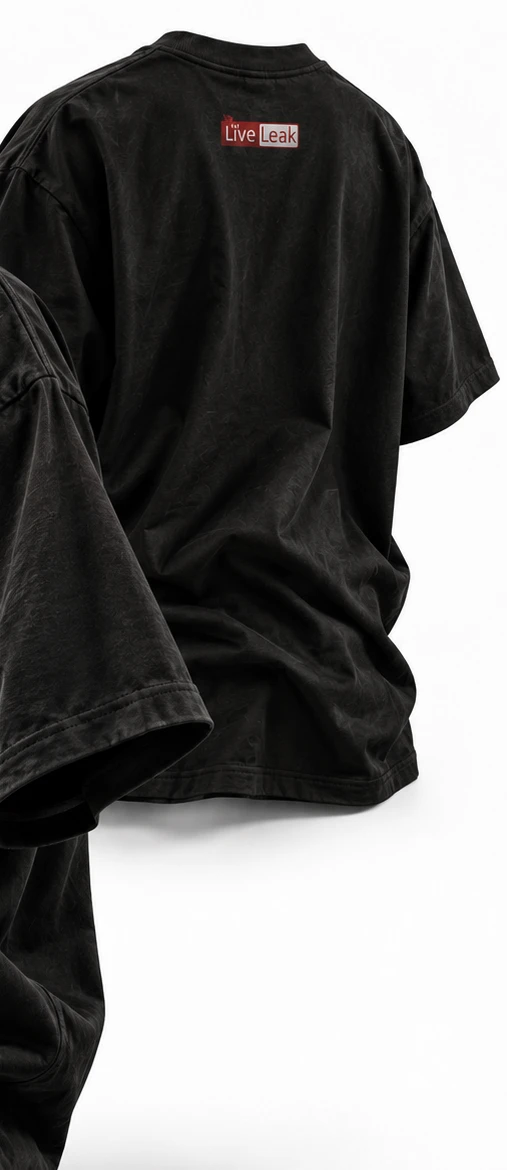
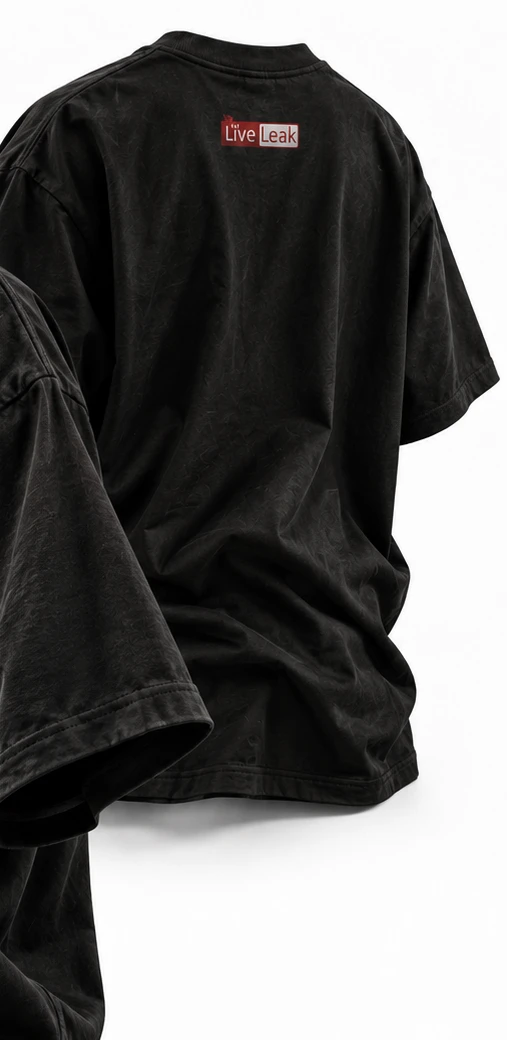
Actualización del proyecto

diff --git a/src/components/WompiCheckout.tsx b/src/components/WompiCheckout.tsx
@@ -177,7 +177,7 @@ export default function WompiCheckout({ open, onClose, items }: Props) {
           animate={{ opacity: 1 }}
           exit={{ opacity: 0 }}
           transition={{ duration: 0.2 }}
-          className="fixed inset-0 z-[100] bg-black/85 flex items-end sm:items-center justify-center p-0 sm:p-6 overflow-y-auto"
+          className="fixed inset-0 z-[100] bg-black/85 flex items-end sm:items-center justify-center p-0 sm:p-6"
           role="dialog"
           aria-modal="true"
           aria-label="Pago con Wompi"
@@ -187,9 +187,9 @@ export default function WompiCheckout({ open, onClose, items }: Props) {
             animate={{ y: 0, opacity: 1 }}
             exit={{ y: 40, opacity: 0 }}
             transition={{ duration: 0.28, ease: [0.22, 1, 0.36, 1] }}
-            className="w-full sm:max-w-lg bg-black text-white border border-white/25 my-auto"
+            className="w-full sm:max-w-lg max-h-[92dvh] sm:max-h-[85dvh] bg-black text-white border border-white/25 flex flex-col overscroll-contain"
           >
-            <div className="flex items-center justify-between border-b border-white/10 px-6 py-4 sticky top-0 bg-black">
+            <div className="flex items-center justify-between border-b border-white/10 px-6 py-4 shrink-0">
               <p className="text-[10px] tracking-[0.3em] uppercase">Pago seguro · Wompi</p>
               <button
                 onClick={onClose}
@@ -200,7 +200,7 @@ export default function WompiCheckout({ open, onClose, items }: Props) {
               </button>
             </div>
 
-            <div className="px-6 py-6 space-y-4">
+            <div className="px-6 py-6 space-y-4 overflow-y-auto overscroll-contain flex-1">
               {phase === "form" && (
                 <form onSubmit={handleSubmit} className="space-y-3">
                   <h3 className="text-2xl font-display tracking-wide">Tu pedido</h3>
@@ -276,9 +276,20 @@ export default function WompiCheckout({ open, onClose, items }: Props) {
                   <button
                     type="submit"
                     disabled={busy || items.length === 0}
-                    className="w-full h-14 text-xs tracking-[0.2em] uppercase font-semibold border border-white/25 hover:bg-white hover:text-black transition-colors disabled:opacity-40"
+                    className="w-full h-16 flex flex-col items-center justify-center gap-1 bg-black border border-white/25 hover:border-white transition-colors disabled:opacity-40"
                   >
-                    {busy ? "Preparando pago…" : "Pagar con Wompi"}
+                    {busy ? (
+                      <span className="text-xs tracking-[0.2em] uppercase font-semibold">Preparando pago…</span>
+                    ) : (
+                      <>
+                        <span className="text-[9px] tracking-[0.2em] uppercase text-white/50">Pagar de forma segura</span>
+                        <span className="flex items-center gap-3">
+                          <img src="/images/wompi-white.png" alt="Wompi" className="h-4 w-auto" />
+                          <span className="text-white/20 text-sm leading-none">×</span>
+                          <img src="/images/bancolombia-white.png" alt="Bancolombia" className="h-3.5 w-auto" />
+                        </span>
+                      </>
+                    )}
                   </button>
                   <WompiVerifiedBadge className="justify-center" />
                   <p className="text-[10px] text-white/45 leading-relaxed">

diff --git a/src/routes/producto.$slug.tsx b/src/routes/producto.$slug.tsx
@@ -67,13 +67,15 @@ function ProductPage() {
   const price = product.price ?? PRICE;
   const [size, setSize] = useState("XL");
   const [guideOpen, setGuideOpen] = useState(false);
-  const [added, setAdded] = useState(false);
+  const [justAdded, setJustAdded] = useState(false);
+  const [everAdded, setEverAdded] = useState(false);
   const { addItem, openCart } = useCart();
 
   function handleAddToCart() {
     addItem({ slug: product.slug, name: product.name, size });
-    setAdded(true);
-    setTimeout(() => setAdded(false), 1800);
+    setEverAdded(true);
+    setJustAdded(true);
+    setTimeout(() => setJustAdded(false), 1800);
   }
 
   return (
@@ -107,7 +109,7 @@ function ProductPage() {
                 height={1500}
                 loading={i === 0 ? "eager" : "lazy"}
                 decoding="async"
-                className="w-full h-full object-cover transition-transform duration-500 ease-out group-hover:scale-150"
+                className="w-full h-full object-contain transition-transform duration-500 ease-out group-hover:scale-105"
               />
             </div>
           ))}
@@ -172,9 +174,9 @@ function ProductPage() {
             onClick={handleAddToCart}
             className="inline-flex items-center justify-center h-14 px-8 micro font-semibold bg-white text-black border border-white hover:bg-transparent hover:text-white transition-colors"
           >
-            {added ? "Agregado ✓" : "Agregar al carrito"}
+            {justAdded ? "Agregado ✓" : "Agregar al carrito"}
           </button>
-          {added && (
+          {everAdded && (
             <button type="button" onClick={openCart} className="micro underline underline-offset-4 text-left hover:opacity-60">
               Ver carrito →
             </button>
